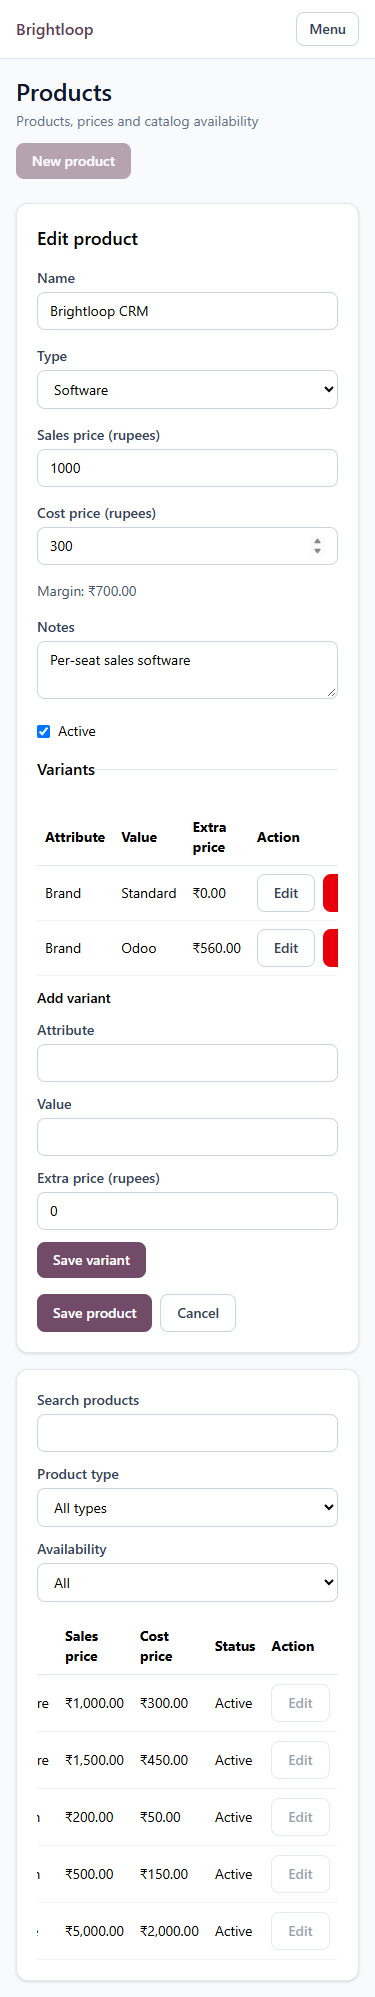
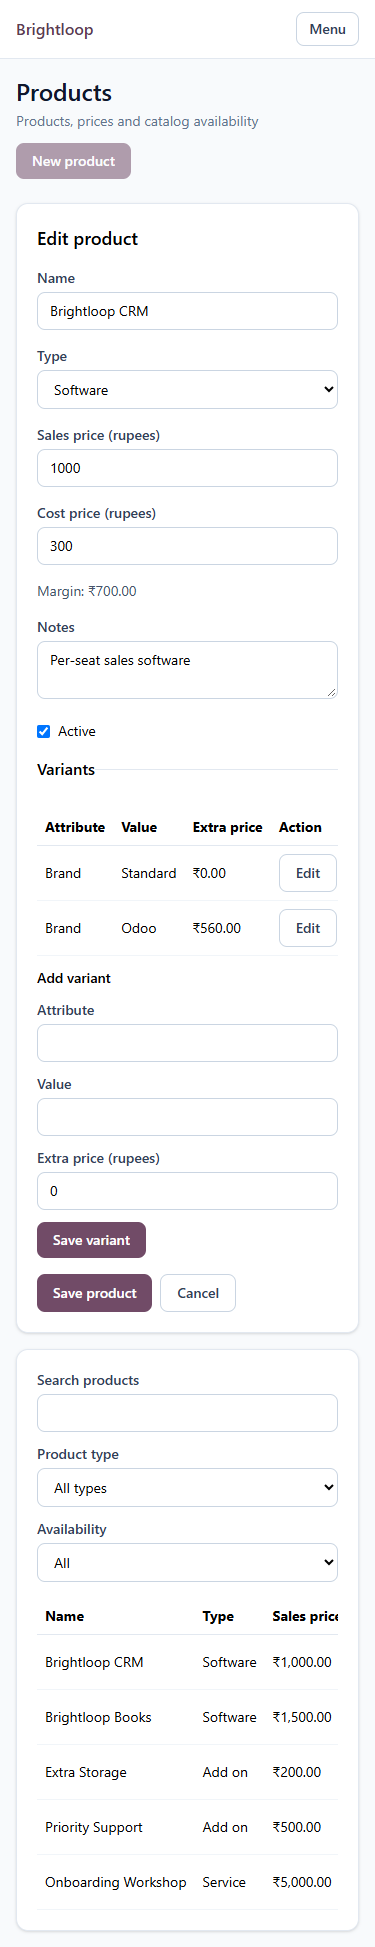
fix(ui): contain catalog tables and validate margin previews
Wide rule tables could expand the desktop flex shell beyond the page.
Invalid product prices also produced misleading margin previews.

- Let the main panel shrink and keep tables in their card scrollers
- Contain tax and term labels and validate prices before preview
- Verify all owned pages and refresh responsive screenshots

Refs: PS-6, PS-7, PS-8, PS-9, PS-10, PS-11, PS-19, #46

diff --git a/client/src/pages/products/ProductForm.jsx b/client/src/pages/products/ProductForm.jsx
@@ -10,6 +10,7 @@ import {
   MAX_PRICE_RUPEES,
   PRODUCT_TYPES,
   validateProduct,
+  validateRupeePrice,
 } from '../../lib/validators.js';
 
 export default function ProductForm({ product, onSaved, onCancel }) {
@@ -54,6 +55,9 @@ export default function ProductForm({ product, onSaved, onCancel }) {
     { key: 'salesPrice', label: 'Sales price' },
     { key: 'costPrice', label: 'Cost price' },
   ];
+  // PS-6: incomplete or invalid prices must not look like a valid margin.
+  const canPreviewMargin =
+    !validateRupeePrice(form.salesPrice, 'Sales price') && !validateRupeePrice(form.costPrice, 'Cost price');
   return (
     <form noValidate onSubmit={handleSubmit} className="card space-y-4">
       <h2 className="text-lg font-semibold">{product ? 'Edit product' : 'New product'}</h2>
@@ -101,7 +105,10 @@ export default function ProductForm({ product, onSaved, onCancel }) {
         ))}
       </div>
       <p className="text-sm text-slate-600">
-        Margin: {formatMoney(toPaise(form.salesPrice || 0) - toPaise(form.costPrice || 0))}
+        Margin:{' '}
+        {canPreviewMargin
+          ? formatMoney(toPaise(form.salesPrice) - toPaise(form.costPrice))
+          : 'Enter valid prices to preview'}
       </p>
       <Field label="Notes" error={fields.notes}>
         <textarea

diff --git a/client/src/pages/taxes/TaxTermSection.jsx b/client/src/pages/taxes/TaxTermSection.jsx
@@ -84,8 +84,8 @@ export default function TaxTermSection({ kind }) {
         data && (
           <>
             {data.items.length ? (
-              <div className="overflow-x-auto">
-                <table className="w-full text-left text-sm">
+              <div className="relative overflow-x-auto">
+                <table className="min-w-max w-full text-left text-sm">
                   <thead>
                     <tr className="border-b border-slate-200">
                       <th className="p-2">Name</th>

diff --git a/client/src/pages/products/ProductList.jsx b/client/src/pages/products/ProductList.jsx
@@ -110,7 +110,7 @@ export default function ProductList() {
             <>
               {data.items.length ? (
                 <div className="relative overflow-x-auto">
-                  <table className="w-full text-left text-sm">
+                  <table className="min-w-max w-full text-left text-sm">
                     <thead>
                       <tr className="border-b border-slate-200">
                         {['Name', 'Type', 'Sales price', 'Cost price', 'Status'].map((label) => (

diff --git a/client/src/pages/templates/TemplateDetail.jsx b/client/src/pages/templates/TemplateDetail.jsx
@@ -11,7 +11,7 @@ export default function TemplateDetail({ template, onClose }) {
       </p>
       {template.notes && <p className="break-words text-sm text-slate-600">{template.notes}</p>}
       <div className="relative overflow-x-auto">
-        <table className="w-full text-left text-sm">
+        <table className="min-w-max w-full text-left text-sm">
           <thead>
             <tr>
               {['Product', 'Variant', 'Quantity', 'Current unit price'].map((label) => (

diff --git a/client/src/pages/products/ProductVariants.jsx b/client/src/pages/products/ProductVariants.jsx
@@ -85,7 +85,7 @@ export default function ProductVariants({ productId, disabled }) {
         data &&
         (data.variants.length ? (
           <div className="relative overflow-x-auto">
-            <table className="w-full text-left text-sm">
+            <table className="min-w-max w-full text-left text-sm">
               <thead>
                 <tr className="border-b border-slate-200">
                   {['Attribute', 'Value', 'Extra price', 'Action'].map((label) => (

diff --git a/client/src/pages/templates/TemplateList.jsx b/client/src/pages/templates/TemplateList.jsx
@@ -97,7 +97,7 @@ export default function TemplateList() {
             <>
               {data.items.length ? (
                 <div className="relative mt-4 overflow-x-auto">
-                  <table className="w-full text-left text-sm">
+                  <table className="min-w-max w-full text-left text-sm">
                     <thead>
                       <tr>
                         {['Name', 'Plan', 'Validity days', 'Lines', 'Status', 'Action'].map((label) => (

diff --git a/client/src/pages/plans/PlanList.jsx b/client/src/pages/plans/PlanList.jsx
@@ -113,7 +113,7 @@ export default function PlanList() {
             <>
               {data.items.length ? (
                 <div className="relative overflow-x-auto">
-                  <table className="w-full text-left text-sm">
+                  <table className="min-w-max w-full text-left text-sm">
                     <thead>
                       <tr className="border-b border-slate-200">
                         {COLUMNS.map((label) => (

diff --git a/client/src/pages/discounts/DiscountList.jsx b/client/src/pages/discounts/DiscountList.jsx
@@ -118,7 +118,7 @@ export default function DiscountList() {
             <>
               {data.items.length ? (
                 <div className="relative mt-4 overflow-x-auto">
-                  <table className="w-full text-left text-sm">
+                  <table className="min-w-max w-full text-left text-sm">
                     <thead>
                       <tr>
                         {COLUMNS.map((label) => (

diff --git a/client/src/components/Layout.jsx b/client/src/components/Layout.jsx
@@ -121,7 +121,7 @@ export default function Layout() {
         {account}
       </aside>
 
-      <main className="mx-auto w-full max-w-6xl flex-1 p-4 md:p-8">
+      <main className="mx-auto min-w-0 w-full max-w-6xl flex-1 p-4 md:p-8">
         <Outlet />
       </main>
     </div>

diff --git a/docs/journal/2026-10-31-J071-catalog-polish.md b/docs/journal/2026-10-31-J071-catalog-polish.md
@@ -1,0 +1,10 @@
+# J-071: Complete Manoj catalog, template and discount polish
+
+- Date: 2026-10-31
+- Contributor/agent: Manoj PN with Codex
+- Branch / issue / PR: `fix/catalog-polish`; Manoj portion of shared issue #46; polish PR pending
+- Summary: Improved table readability, contained tax/term accessible labels and suppressed margin previews for invalid/incomplete prices. Fixed a reproduced desktop overflow by allowing the shared main flex panel to shrink. Refreshed responsive screenshots and documentation.
+- Decisions: Keep wide tables inside their card scrollers rather than clipping page content. Leave PS-11 In progress until the separately owned subscription-from-template workflow exists. Keep #46 open for teammates and release-wide work; do not use a closing trailer for a partial shared issue.
+- Database and migrations: No schema or migration changes. Existing financial/session regressions ran on a separate newly migrated/seeded database, removed afterward. The final browser pass performs no data writes.
+- Checks and results: One hundred two real-login browser checks passed across seven sections at 375px/1280px, including bad input on every form, empty/error states, persisted filters, actual navigation, exact margin preview, staff read-only controls and no page overflow/exceptions. Reproduced 1322px document width in a 1280px viewport before the flex fix. All seventeen existing PostgreSQL integration regressions passed. The integrated parent passed full local CI with four migrations, sixty-five tests and production build; final push must pass the mandatory fast hook and client build.
+- Follow-ups: PRs #108/#109/#110 are synchronized and ready with Jayasurya requested. Reviewed/merged issues #15/#16/#34 are closed with completed checklists; #35 implementation checklist is complete pending UI review. Manoj's #46 checkbox is checked and other owners' status is preserved. Publish this polish PR, then report remaining review dependencies. Source-only LF formatting is approved and passes; no Git settings changed and no protected branch was merged by this agent.

diff --git a/docs/api.md b/docs/api.md
@@ -764,3 +764,11 @@ Errors: `400` field errors or invalid/read-only input, `401` unauthenticated,
 The Discounts page uses URL-backed search/state filters and real paginated
 rules. Admin-only forms show product selection only for PRODUCT scope, convert
 rupees to paise once and preserve usage counts. Internal staff browse read-only.
+
+### Catalog UI verification (#46)
+
+Products, variants, plans, taxes, payment terms, templates and discounts are
+checked with real Admin/Internal login at 375px and 1280px. Wide tables scroll
+inside their cards; the shell can shrink without page overflow. Invalid or
+incomplete prices do not show a calculated margin. Invalid input, empty/error
+states and read-only staff controls are verified. No API or schema changes.

diff --git a/docs/requirements.md b/docs/requirements.md
@@ -50,6 +50,10 @@ Brightloop Software sells everything on subscription: software billed monthly or
 | PS-9 | Plan by plan, the Admin decides whether it closes by itself at the end, and whether it can be closed early, paused or renewed | P1 | Manoj | Done |
 | PS-10 | The Admin sets tax rules, and taxes are calculated from them automatically | P1 | Manoj | Done |
 
+Catalog quality check (#46): Manoj's products, variants, plans, taxes, payment
+terms, templates and discounts pass validation, empty/error and role checks at
+375px and 1280px. Team-wide scale verification (PS-25) remains separate.
+
 ### Subscriptions
 
 | ID | Requirement | Priority | Owner | Status |
